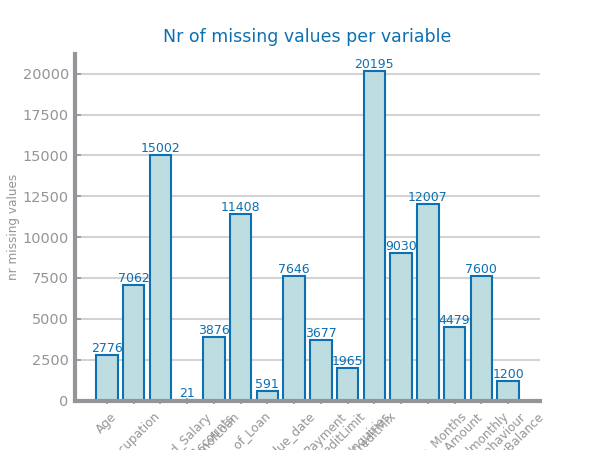
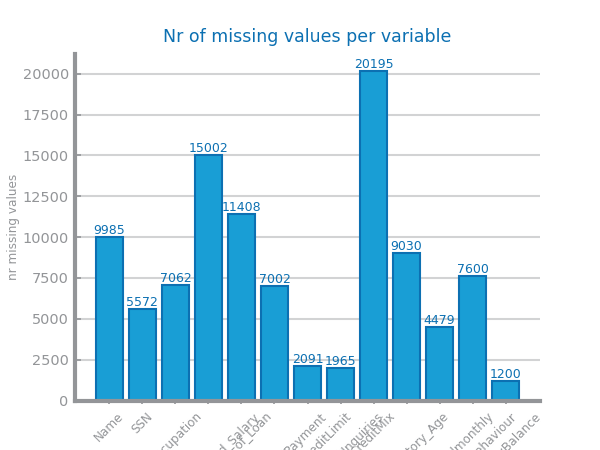
starting report

Changed region(s): [[0.15, 0.1556, 0.9, 1.0], [0.18, 0.9956, 0.21, 1.0]]

diff --git a/set2.py b/set2.py
@@ -39,12 +39,9 @@ from preparation.methodology import Methodology
 filename = "data/class_credit_score.csv"
 file_tag = "credit"
 target = "Credit_Score"
-# data: DataFrame = read_csv(filename, na_values="")
-# data = data.drop(['ID', 'SSN', 'Name'], axis=1)
-# print("Drop of ID, SSN and Name")
-# mv_out = MV_out("data/class_credit_score.csv", file_tag, data, 2)
-# data = mv_out.data_correction()
-# print("Data Cleaned")
+data: DataFrame = read_csv(filename, na_values="")
+
+
 
 
 # ------------------------------------------ #
@@ -61,10 +58,10 @@ target = "Credit_Score"
 
 # dim = Dimensionality(filename, file_tag, data)
 #
-# print('Set2 Data Shape: ', data.shape)  # Dimension: (100000, 27)
+# print('Set2 Data Shape: ', data.shape)  # Dimension: (100000, 28)
 # print('Set2 Columns Names: ', data.columns)
 
-# Index(['Customer_ID', 'Month', 'Name', 'Age', 'SSN', 'Occupation',
+# Index(['ID', 'Customer_ID', 'Month', 'Name', 'Age', 'SSN', 'Occupation',
 #        'Annual_Income', 'Monthly_Inhand_Salary', 'Num_Bank_Accounts',
 #        'Num_Credit_Card', 'Interest_Rate', 'NumofLoan', 'Type_of_Loan',
 #        'Delay_from_due_date', 'NumofDelayedPayment', 'ChangedCreditLimit',
@@ -74,16 +71,48 @@ target = "Credit_Score"
 #        'MonthlyBalance', 'Credit_Score'],
 #       dtype='object')
 
-# Number of records and variables
+# # Number of records and variables
 # dim.num_records_variables()
-
-# Missing Values
+#
+# # Missing Values
 # dim.missing_values()
-
-# Variables Type
+#
+# # Variables Type
 # print('Set2 Data Types 2:\n', data.dtypes, '\n')
 
-# Number of variables per type
+# Set2 Data Types 2:
+# ID                         object
+# Customer_ID                object
+# Month                      object
+# Name                       object
+# Age                        object
+# SSN                        object
+# Occupation                 object
+# Annual_Income             float64
+# Monthly_Inhand_Salary     float64
+# Num_Bank_Accounts           int64
+# Num_Credit_Card             int64
+# Interest_Rate               int64
+# NumofLoan                   int64
+# Type_of_Loan               object
+# Delay_from_due_date         int64
+# NumofDelayedPayment       float64
+# ChangedCreditLimit        float64
+# NumCreditInquiries        float64
+# CreditMix                  object
+# OutstandingDebt           float64
+# CreditUtilizationRatio    float64
+# Credit_History_Age         object
+# Payment_of_Min_Amount      object
+# TotalEMIpermonth          float64
+# Amountinvestedmonthly     float64
+# Payment_Behaviour          object
+# MonthlyBalance            float64
+# Credit_Score               object
+# dtype: object
+
+#
+# # Number of variables per type
 # dim.num_variables_per_type()
 
 # ------------------ #
@@ -98,39 +127,48 @@ target = "Credit_Score"
 # Histograms for symbolic               - Done
 # Class Distribution                    - Done (images2submit/credit_class_distribution.png)
 
-# summary5: DataFrame = data.describe(include="all")
-# print(summary5, '\n')
-#
-# distribution = Distribution(filename, file_tag, data)
-#
+data = data.drop(['ID', 'SSN', 'Name'], axis=1)
+#data = data.drop(['Annual_Income', 'TotalEMIpermonth'], axis=1)
+print("Drop of ID, SSN and Name")
+# mv_out = MV_out("data/class_credit_score.csv", file_tag, data, 2)
+# data = mv_out.data_correction()
+# data['MonthlyBalance'] = data['MonthlyBalance'].replace(-3.33333E+26, )
+# data = data.drop(['Customer_ID'], axis=1)
+
+summary5: DataFrame = data.describe(include="all")
+print(summary5, '\n')
+
+
+
+distribution = Distribution(filename, file_tag, data)
+
 # print('Numeric Variables: ', distribution.get_numeric_variables(), '\n')
 # print('Symbolic Variables: ', distribution.get_symbolic_variables(), '\n')
 
-# data['MonthlyBalance'] = data['MonthlyBalance'].replace(-3.33333E+26, "")
 
-# Global Boxplot
+# # Global Boxplot
 # distribution.global_boxplot2()
 
-# Single Variable Boxplots
+# # Single Variable Boxplots
 # distribution.boxplots()
 
-# Outliers Study
+# # Outliers Study
 # distribution.num_standart_outliers_per_variable()
 
 NR_STDEV: int = 2
 IQR_FACTOR: float = 1.5
 # distribution.num_outliers_per_variable(NR_STDEV, IQR_FACTOR)
 
-# Histograms - numeric
+# # Histograms - numeric
 # distribution.histogram_numeric()
 
 # Histograms - symbolic
 # distribution.histograms_symbolic_variables()
 
-# Distribution for numeric
+# # Distribution for numeric
 # distribution.histograms_numeric_with_distributions()
 
-# Class Distribution
+# # Class Distribution
 # distribution.class_distribution(target='Credit_Score')
 
 # ----------------- #
@@ -139,9 +177,9 @@ IQR_FACTOR: float = 1.5
 
 # Symbolic variables
 
-# granularity = Granularity(filename, file_tag, data)
+granularity = Granularity(filename, file_tag, data)
 
-#granularity.analyse_property_granularity("credit_history",["Credit_Score", "CreditMix" , "Payment_Behaviour"])
+granularity.analyse_property_granularity("credit_history",["Credit_Score", "CreditMix" , "Payment_Behaviour"])
 
 # -------------- #
 # -- Sparsity -- #
@@ -170,6 +208,12 @@ IQR_FACTOR: float = 1.5
 # -------------- #
 # filename = "cleaned_data.csv"
 # encoding = Encoding(filename, file_tag, data)
+
+# data = data.drop(['ID', 'SSN', 'Name'], axis=1)
+# print("Drop of ID, SSN and Name")
+# mv_out = MV_out("data/class_credit_score.csv", file_tag, data, 2)
+# data = mv_out.data_correction()
+# print("Data Cleaned")
 #
 # def create_loan_type_columns():
 #     # Preencher os valores ausentes na coluna 'Type_of_Loan' com uma string vazia
@@ -447,44 +491,44 @@ IQR_FACTOR: float = 1.5
 # --------------------- #
 # - Gradient Boosting - #
 # --------------------- #
-classificationGB = GradientBoosting(file_tag, "data/credit_train.csv", "data/credit_test.csv", target)
-
-# Testar Parâmetros:
-NR_MAX_TREES_GB = 2500 # default
-lag_gb = 500
-gb_metric = "accuracy"
-
-#classificationGB.full_metrics_gradient_boosting_study(NR_MAX_TREES_GB, lag_gb)
-
-best_model_gb, best_params_gb = classificationGB.specific_metric_gradient_boosting_study(NR_MAX_TREES_GB, lag_gb, gb_metric)
-
-# guardar os resultados
-joblib.dump((best_model_gb, best_params_gb), 'resultados_gb.joblib')
-
-classificationGB.performance_analysis(best_model_gb, best_params_gb)
-classificationGB.gb_overfitting_study(best_params_gb)
-classificationGB.visualize_variable_importance(best_model_gb, gb_metric)
+# classificationGB = GradientBoosting(file_tag, "data/credit_train.csv", "data/credit_test.csv", target)
+#
+# # Testar Parâmetros:
+# NR_MAX_TREES_GB = 2500 # default
+# lag_gb = 500
+# gb_metric = "accuracy"
+#
+# #classificationGB.full_metrics_gradient_boosting_study(NR_MAX_TREES_GB, lag_gb)
+#
+# best_model_gb, best_params_gb = classificationGB.specific_metric_gradient_boosting_study(NR_MAX_TREES_GB, lag_gb, gb_metric)
+#
+# # guardar os resultados
+# joblib.dump((best_model_gb, best_params_gb), 'resultados_gb.joblib')
+#
+# classificationGB.performance_analysis(best_model_gb, best_params_gb)
+# classificationGB.gb_overfitting_study(best_params_gb)
+# classificationGB.visualize_variable_importance(best_model_gb, gb_metric)
 
 
 # --------------------- #
 # --- Random Forest --- #
 # --------------------- #
-classificationRF = RandomForests(file_tag, "data/credit_train.csv" , "data/credit_test.csv", target)
-
-# Testar Parâmetros:
-NR_MAX_TREES_RF = 2500 # default
-lag_rf = 500
-rf_metric = "accuracy"
-
-#classificationRF.full_metrics_random_forests_study(NR_MAX_TREES_RF, lag_rf)
-
-best_model_rf, best_params_rf = classificationRF.specific_metric_random_forests_study(NR_MAX_TREES_RF, lag_rf, rf_metric)
-
-# guardar os resultados
-joblib.dump((best_model_rf, best_params_rf), 'resultados_rf.joblib')
-
-classificationRF.performance_analysis(best_model_rf, best_params_rf)
-classificationRF.rf_overfitting_study(best_params_rf)
-classificationRF.visualize_variable_importance(best_model_rf, rf_metric)
+# classificationRF = RandomForests(file_tag, "data/credit_train.csv" , "data/credit_test.csv", target)
+#
+# # Testar Parâmetros:
+# NR_MAX_TREES_RF = 2500 # default
+# lag_rf = 500
+# rf_metric = "accuracy"
+#
+# #classificationRF.full_metrics_random_forests_study(NR_MAX_TREES_RF, lag_rf)
+#
+# best_model_rf, best_params_rf = classificationRF.specific_metric_random_forests_study(NR_MAX_TREES_RF, lag_rf, rf_metric)
+#
+# # guardar os resultados
+# joblib.dump((best_model_rf, best_params_rf), 'resultados_rf.joblib')
+#
+# classificationRF.performance_analysis(best_model_rf, best_params_rf)
+# classificationRF.rf_overfitting_study(best_params_rf)
+# classificationRF.visualize_variable_importance(best_model_rf, rf_metric)
 
 

diff --git a/profiling/distribution.py b/profiling/distribution.py
@@ -195,6 +195,7 @@ class Distribution():
                 i, j = (i + 1, 0) if (n + 1) % cols == 0 else (i, j + 1)
             plt.tight_layout()
             savefig(f"images/profiling/{self.file_tag}_single_histograms_numeric.png")
+            show()
         else:
             print("There are no numeric variables.")
 
@@ -226,13 +227,16 @@ class Distribution():
 
     def histograms_symbolic_variables(self):
         symbolic = self.get_symbolic_variables()
-        if [] != symbolic:
+        if symbolic:
             rows, cols = define_grid(len(symbolic))
             _, axs = subplots(
                 rows, cols, figsize=(cols * HEIGHT, rows * HEIGHT), squeeze=False
             )
             i, j = 0, 0
+            p = len(symbolic)
+            print("len: ", p)
             for n in range(len(symbolic)):
+                print(n, " of ", p)
                 counts: Series = self.data[symbolic[n]].value_counts()
                 plot_bar_chart(
                     counts.index.to_list(),

diff --git a/profiling/dimensionality.py b/profiling/dimensionality.py
@@ -24,6 +24,7 @@ class Dimensionality:
             list(values.keys()), list(values.values()), title="Nr of records vs nr variables"
         )
         savefig(f"images/profiling/{self.file_tag}_records_variables.png")
+        show()
 
     def missing_values(self):
         mv: dict[str, int] = {}
@@ -41,6 +42,7 @@ class Dimensionality:
             ylabel="nr missing values",
         )
         savefig(f"images/profiling/{self.file_tag}_mv.png")
+        show()
 
 
     def num_variables_per_type(self):
@@ -55,4 +57,5 @@ class Dimensionality:
             list(counts.keys()), list(counts.values()), title="Nr of variables per type"
         )
         savefig(f"images/profiling/{self.file_tag}_variable_types.png")
+        show()
     
